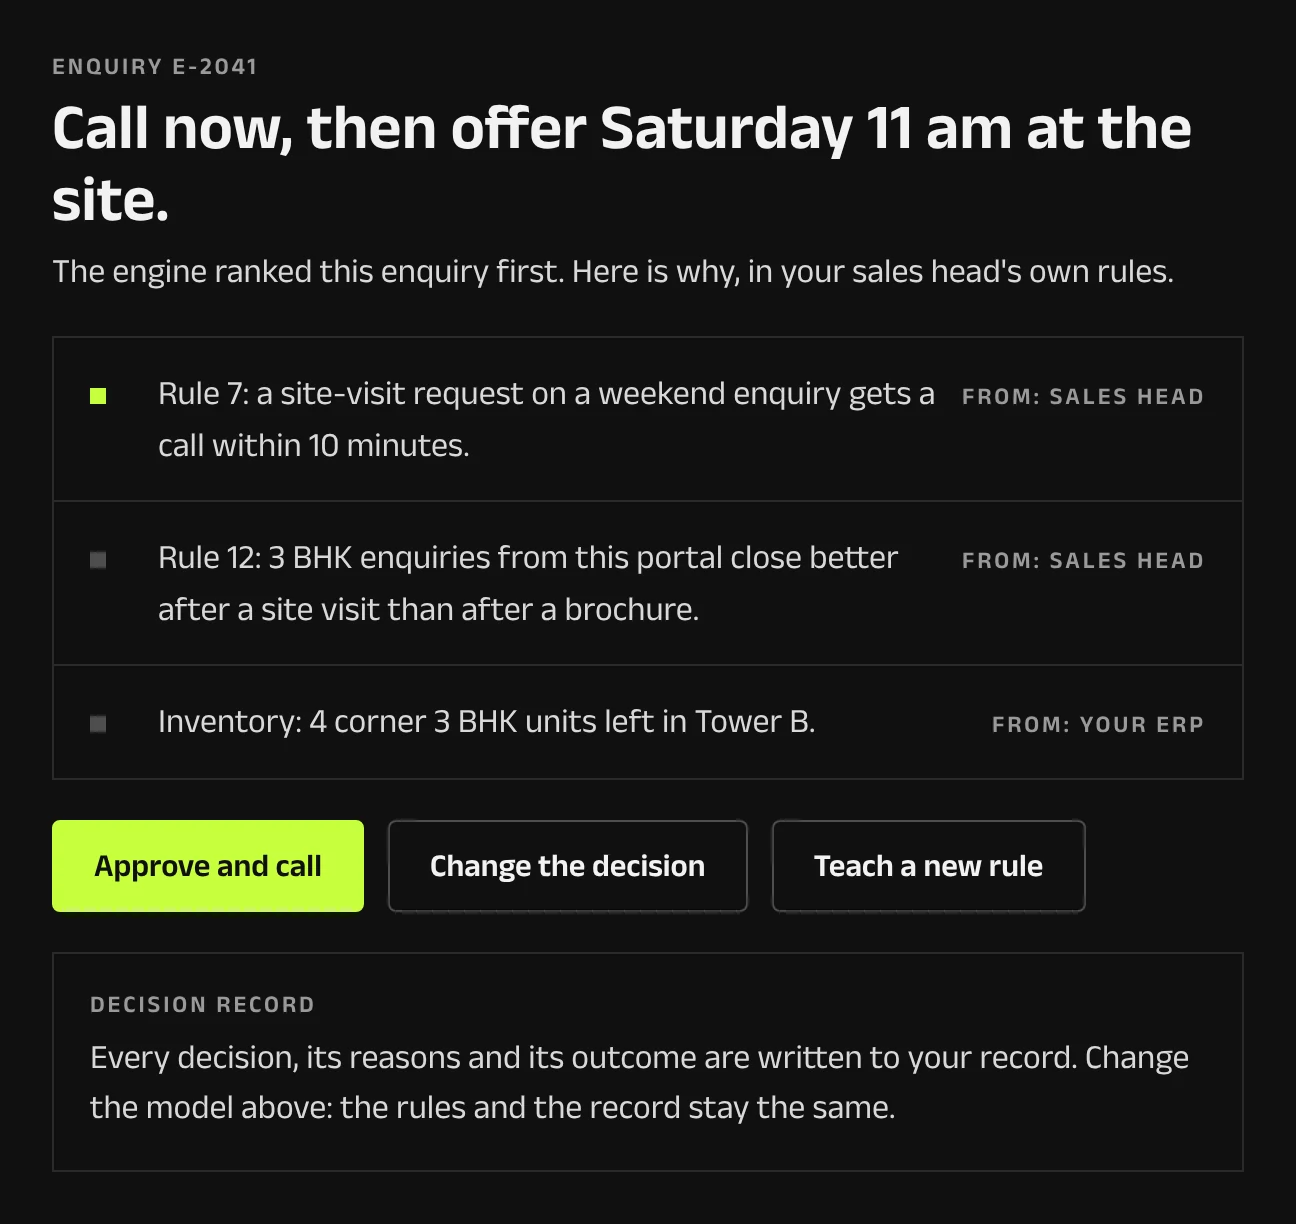
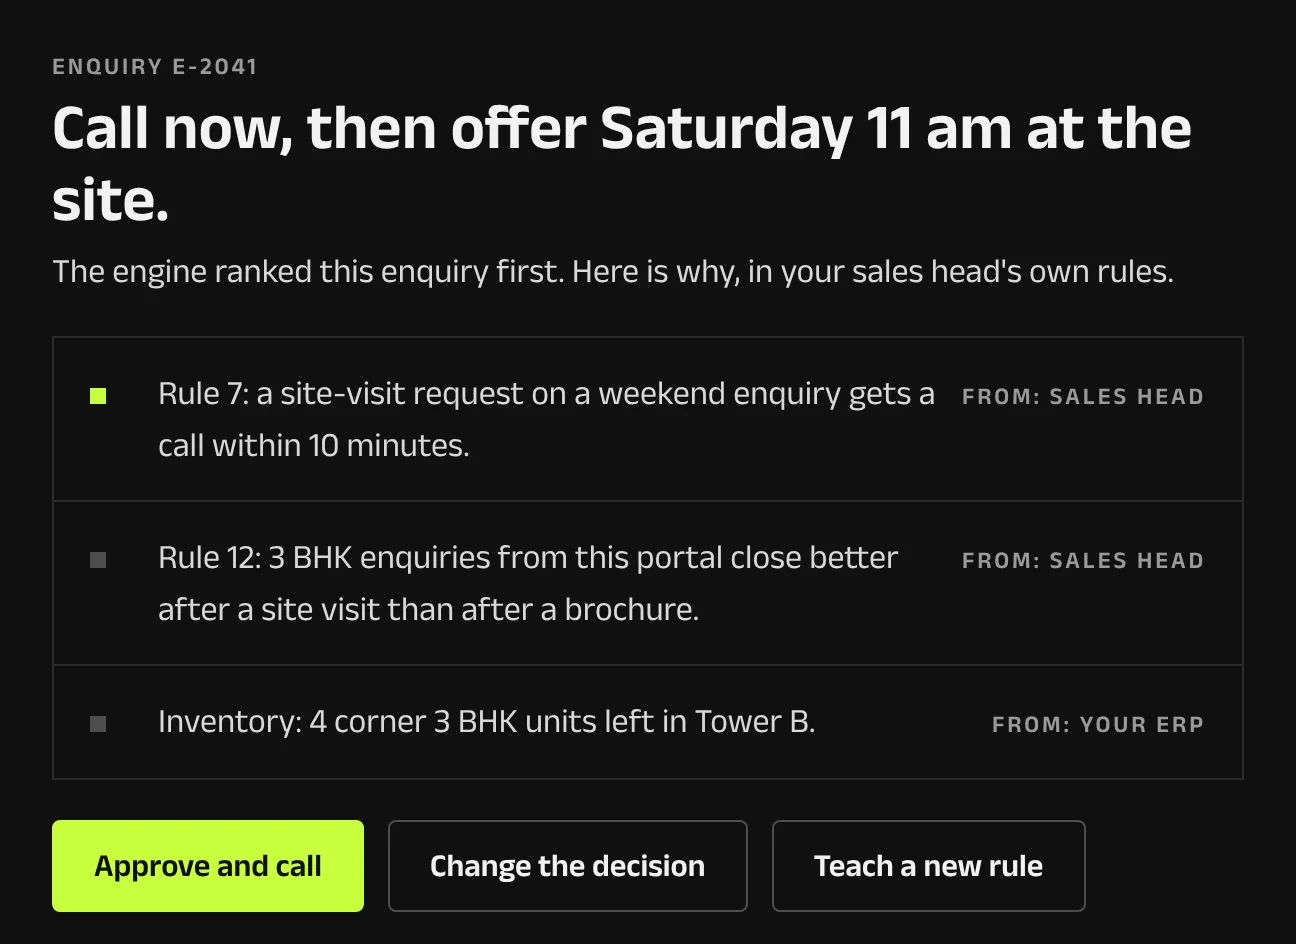
Meta descriptions within 160 characters; tighter Sales Engine phone crop
- Next generation, How we work, Chemicals and pharma, Auto components
  and Product: meta and Open Graph descriptions trimmed to 154 to 159
  characters. The visible page text is unchanged.
- Sales Engine: the phone picture now ends below the decision buttons,
  so the decision record's "Change the model above" no longer shows
  without the model switch. 1296 x 944 and 648 x 472 WebP.

Claude-Session: https://claude.ai/code/session_01Tmb6ZH3UjJTymuFfWY4a68

diff --git a/docs/industries/chemicals-and-pharma/index.html b/docs/industries/chemicals-and-pharma/index.html
@@ -4,7 +4,7 @@
 <meta charset="utf-8">
 <meta name="viewport" content="width=device-width, initial-scale=1">
 <title>AI for chemical and pharma makers: where it pays back first | Intellumia, an AI-native product company, starting with service</title>
-<meta name="description" content="Where AI pays back first: in batch yield and in quality. Both swing with who is on shift, because the best operators run the batch on judgement that was never written down.">
+<meta name="description" content="Where AI pays back first: batch yield and quality. Both swing with who is on shift, because the best operators run each batch on judgement never written down.">
 <link rel="canonical" href="https://intellumia.com/industries/chemicals-and-pharma/">
 <meta name="referrer" content="strict-origin-when-cross-origin">
 <meta http-equiv="Content-Security-Policy" content="default-src 'self'; img-src 'self' data:; style-src 'self' 'unsafe-inline'; font-src 'self'; script-src 'none'; base-uri 'self'; form-action 'none'">
@@ -13,7 +13,7 @@
 <link rel="preload" href="/assets/fonts/AnekLatin-latin.woff2" as="font" type="font/woff2" crossorigin>
 <link rel="stylesheet" href="/assets/site.css">
 <meta property="og:type" content="website"><meta property="og:site_name" content="Intellumia">
-<meta property="og:title" content="AI for chemical and pharma makers: where it pays back first | Intellumia, an AI-native product company, starting with service"><meta property="og:description" content="Where AI pays back first: in batch yield and in quality. Both swing with who is on shift, because the best operators run the batch on judgement that was never written down."><meta property="og:url" content="https://intellumia.com/industries/chemicals-and-pharma/">
+<meta property="og:title" content="AI for chemical and pharma makers: where it pays back first | Intellumia, an AI-native product company, starting with service"><meta property="og:description" content="Where AI pays back first: batch yield and quality. Both swing with who is on shift, because the best operators run each batch on judgement never written down."><meta property="og:url" content="https://intellumia.com/industries/chemicals-and-pharma/">
 <meta property="og:image" content="https://intellumia.com/assets/social-preview.jpg"><meta property="og:image:width" content="1200"><meta property="og:image:height" content="630">
 <meta name="twitter:card" content="summary_large_image">
 <script type="application/ld+json">{"@context": "https://schema.org", "@graph": [{"@type": "Organization", "@id": "https://intellumia.com/#organization", "name": "Intellumia", "alternateName": "intellumia", "legalName": "Intellumia Pte. Ltd.", "description": "Intellumia is the judgement engine for owner-led businesses: it learns how your best people decide and runs those decisions on your data. You own it.", "disambiguatingDescription": "An AI-native product company, starting with service.", "slogan": "The judgement that built your business, put to work.", "url": "https://intellumia.com/", "logo": "https://intellumia.com/assets/intellumia-wordmark-black.svg", "founder": {"@type": "Person", "@id": "https://intellumia.com/about/#sundeep-kumar", "name": "Sundeep Kumar"}, "address": {"@type": "PostalAddress", "streetAddress": "60 Paya Lebar Road, #07-54 Paya Lebar Square", "postalCode": "409051", "addressCountry": "SG"}, "email": "sundeep@intellumia.com"}, {"@type": "FAQPage", "mainEntity": [{"@type": "Question", "name": "Where does AI pay back first in a chemical or pharma plant?", "acceptedAnswer": {"@type": "Answer", "text": "Usually in batch yield and quality, because the batch records already exist and the cost of a failed or reworked batch is easy to count."}}, {"@type": "Question", "name": "Do we need new software or sensors?", "acceptedAnswer": {"@type": "Answer", "text": "Not to start. The Decision Sprint works on the data you already have: batch records, lab sheets, SAP or Tally."}}, {"@type": "Question", "name": "Will it replace my plant head?", "acceptedAnswer": {"@type": "Answer", "text": "No. It writes down how your best people decide and puts that judgement on every shift. Your people still decide and sign."}}, {"@type": "Question", "name": "How long before we see a number?", "acceptedAnswer": {"@type": "Answer", "text": "Five days to see the first move and its number; 90 days to move it against a baseline taken first."}}, {"@type": "Question", "name": "Who owns what is built?", "acceptedAnswer": {"@type": "Answer", "text": "You do: the rules, the decision record and the engine, on any AI model."}}]}, {"@type": "BreadcrumbList", "itemListElement": [{"@type": "ListItem", "position": 1, "name": "Home", "item": "https://intellumia.com/"}, {"@type": "ListItem", "position": 2, "name": "Industries", "item": "https://intellumia.com/industries/"}, {"@type": "ListItem", "position": 3, "name": "Chemicals and pharma", "item": "https://intellumia.com/industries/chemicals-and-pharma/"}]}]}</script>

diff --git a/docs/industries/auto-components/index.html b/docs/industries/auto-components/index.html
@@ -4,7 +4,7 @@
 <meta charset="utf-8">
 <meta name="viewport" content="width=device-width, initial-scale=1">
 <title>AI for auto component makers: where it pays back first | Intellumia, an AI-native product company, starting with service</title>
-<meta name="description" content="Where AI pays back first: in quality and in quoting. Both run on the judgement of a few senior people, and both leak margin when those people are not in the room.">
+<meta name="description" content="Where AI pays back first: in quality and in quoting. Both run on the judgement of a few senior people, and both leak margin when they are not in the room.">
 <link rel="canonical" href="https://intellumia.com/industries/auto-components/">
 <meta name="referrer" content="strict-origin-when-cross-origin">
 <meta http-equiv="Content-Security-Policy" content="default-src 'self'; img-src 'self' data:; style-src 'self' 'unsafe-inline'; font-src 'self'; script-src 'none'; base-uri 'self'; form-action 'none'">
@@ -13,7 +13,7 @@
 <link rel="preload" href="/assets/fonts/AnekLatin-latin.woff2" as="font" type="font/woff2" crossorigin>
 <link rel="stylesheet" href="/assets/site.css">
 <meta property="og:type" content="website"><meta property="og:site_name" content="Intellumia">
-<meta property="og:title" content="AI for auto component makers: where it pays back first | Intellumia, an AI-native product company, starting with service"><meta property="og:description" content="Where AI pays back first: in quality and in quoting. Both run on the judgement of a few senior people, and both leak margin when those people are not in the room."><meta property="og:url" content="https://intellumia.com/industries/auto-components/">
+<meta property="og:title" content="AI for auto component makers: where it pays back first | Intellumia, an AI-native product company, starting with service"><meta property="og:description" content="Where AI pays back first: in quality and in quoting. Both run on the judgement of a few senior people, and both leak margin when they are not in the room."><meta property="og:url" content="https://intellumia.com/industries/auto-components/">
 <meta property="og:image" content="https://intellumia.com/assets/social-preview.jpg"><meta property="og:image:width" content="1200"><meta property="og:image:height" content="630">
 <meta name="twitter:card" content="summary_large_image">
 <script type="application/ld+json">{"@context": "https://schema.org", "@graph": [{"@type": "Organization", "@id": "https://intellumia.com/#organization", "name": "Intellumia", "alternateName": "intellumia", "legalName": "Intellumia Pte. Ltd.", "description": "Intellumia is the judgement engine for owner-led businesses: it learns how your best people decide and runs those decisions on your data. You own it.", "disambiguatingDescription": "An AI-native product company, starting with service.", "slogan": "The judgement that built your business, put to work.", "url": "https://intellumia.com/", "logo": "https://intellumia.com/assets/intellumia-wordmark-black.svg", "founder": {"@type": "Person", "@id": "https://intellumia.com/about/#sundeep-kumar", "name": "Sundeep Kumar"}, "address": {"@type": "PostalAddress", "streetAddress": "60 Paya Lebar Road, #07-54 Paya Lebar Square", "postalCode": "409051", "addressCountry": "SG"}, "email": "sundeep@intellumia.com"}, {"@type": "FAQPage", "mainEntity": [{"@type": "Question", "name": "Where does AI pay back first in an auto component plant?", "acceptedAnswer": {"@type": "Answer", "text": "Usually in quality: rejections, rework and first-pass yield, because the data already exists in your inspection and machine records and the cost of a bad batch is easy to count."}}, {"@type": "Question", "name": "Do we need new software or sensors?", "acceptedAnswer": {"@type": "Answer", "text": "Not to start. The Decision Sprint works on the data you already have: SAP or Tally, inspection sheets, machine logs."}}, {"@type": "Question", "name": "Will it replace my quality head?", "acceptedAnswer": {"@type": "Answer", "text": "No. It writes down how your quality head decides and puts that judgement on every shift. Your people still decide."}}, {"@type": "Question", "name": "How long before we see a number?", "acceptedAnswer": {"@type": "Answer", "text": "Five days to see the first move and its number; 90 days to move it against a baseline taken first."}}, {"@type": "Question", "name": "Who owns what is built?", "acceptedAnswer": {"@type": "Answer", "text": "You do: the rules, the decision record and the engine, on any AI model."}}]}, {"@type": "BreadcrumbList", "itemListElement": [{"@type": "ListItem", "position": 1, "name": "Home", "item": "https://intellumia.com/"}, {"@type": "ListItem", "position": 2, "name": "Industries", "item": "https://intellumia.com/industries/"}, {"@type": "ListItem", "position": 3, "name": "Auto components", "item": "https://intellumia.com/industries/auto-components/"}]}]}</script>

diff --git a/docs/product/index.html b/docs/product/index.html
@@ -4,7 +4,7 @@
 <meta charset="utf-8">
 <meta name="viewport" content="width=device-width, initial-scale=1">
 <title>Product: the intelligence layer | Intellumia, an AI-native product company, starting with service</title>
-<meta name="description" content="The Intellumia layer keeps how your company decides: the reasons, rules and instincts of your best people. Engines run on it every day, on your data. You own it.">
+<meta name="description" content="The Intellumia layer keeps how your company decides: the reasons, rules and instincts of your best people. Engines run on it daily, on your data. You own it.">
 <link rel="canonical" href="https://intellumia.com/product/">
 <meta name="referrer" content="strict-origin-when-cross-origin">
 <meta http-equiv="Content-Security-Policy" content="default-src 'self'; img-src 'self' data:; style-src 'self' 'unsafe-inline'; font-src 'self'; script-src 'none'; base-uri 'self'; form-action 'none'">
@@ -13,7 +13,7 @@
 <link rel="preload" href="/assets/fonts/AnekLatin-latin.woff2" as="font" type="font/woff2" crossorigin>
 <link rel="stylesheet" href="/assets/site.css">
 <meta property="og:type" content="website"><meta property="og:site_name" content="Intellumia">
-<meta property="og:title" content="Product: the intelligence layer | Intellumia, an AI-native product company, starting with service"><meta property="og:description" content="The Intellumia layer keeps how your company decides: the reasons, rules and instincts of your best people. Engines run on it every day, on your data. You own it."><meta property="og:url" content="https://intellumia.com/product/">
+<meta property="og:title" content="Product: the intelligence layer | Intellumia, an AI-native product company, starting with service"><meta property="og:description" content="The Intellumia layer keeps how your company decides: the reasons, rules and instincts of your best people. Engines run on it daily, on your data. You own it."><meta property="og:url" content="https://intellumia.com/product/">
 <meta property="og:image" content="https://intellumia.com/assets/social-preview.jpg"><meta property="og:image:width" content="1200"><meta property="og:image:height" content="630">
 <meta name="twitter:card" content="summary_large_image">
 <script type="application/ld+json">{"@context": "https://schema.org", "@graph": [{"@type": "Organization", "@id": "https://intellumia.com/#organization", "name": "Intellumia", "alternateName": "intellumia", "legalName": "Intellumia Pte. Ltd.", "description": "Intellumia is the judgement engine for owner-led businesses: it learns how your best people decide and runs those decisions on your data. You own it.", "disambiguatingDescription": "An AI-native product company, starting with service.", "slogan": "The judgement that built your business, put to work.", "url": "https://intellumia.com/", "logo": "https://intellumia.com/assets/intellumia-wordmark-black.svg", "founder": {"@type": "Person", "@id": "https://intellumia.com/about/#sundeep-kumar", "name": "Sundeep Kumar"}, "address": {"@type": "PostalAddress", "streetAddress": "60 Paya Lebar Road, #07-54 Paya Lebar Square", "postalCode": "409051", "addressCountry": "SG"}, "email": "sundeep@intellumia.com"}, {"@type": "FAQPage", "mainEntity": [{"@type": "Question", "name": "Is this software or consulting?", "acceptedAnswer": {"@type": "Answer", "text": "Software, started with service. We sit beside your team for the first decisions, then the engines run them."}}, {"@type": "Question", "name": "What if we change AI provider?", "acceptedAnswer": {"@type": "Answer", "text": "Nothing is lost. The layer is yours and runs on any model."}}, {"@type": "Question", "name": "Do you need all our data?", "acceptedAnswer": {"@type": "Answer", "text": "No. One decision and the data behind it, to start."}}]}]}</script>

diff --git a/docs/next-generation/index.html b/docs/next-generation/index.html
@@ -4,7 +4,7 @@
 <meta charset="utf-8">
 <meta name="viewport" content="width=device-width, initial-scale=1">
 <title>For the next generation | Intellumia, an AI-native product company, starting with service</title>
-<meta name="description" content="You will inherit the business. Will you inherit how it decides? Intellumia writes down the founder&#x27;s judgement and puts it to work, in a layer the family business owns.">
+<meta name="description" content="You will inherit the business. Will you inherit how it decides? Intellumia writes down the founder&#x27;s judgement and runs it in a layer the family business owns.">
 <link rel="canonical" href="https://intellumia.com/next-generation/">
 <meta name="referrer" content="strict-origin-when-cross-origin">
 <meta http-equiv="Content-Security-Policy" content="default-src 'self'; img-src 'self' data:; style-src 'self' 'unsafe-inline'; font-src 'self'; script-src 'none'; base-uri 'self'; form-action 'none'">
@@ -13,7 +13,7 @@
 <link rel="preload" href="/assets/fonts/AnekLatin-latin.woff2" as="font" type="font/woff2" crossorigin>
 <link rel="stylesheet" href="/assets/site.css">
 <meta property="og:type" content="website"><meta property="og:site_name" content="Intellumia">
-<meta property="og:title" content="For the next generation | Intellumia, an AI-native product company, starting with service"><meta property="og:description" content="You will inherit the business. Will you inherit how it decides? Intellumia writes down the founder&#x27;s judgement and puts it to work, in a layer the family business owns."><meta property="og:url" content="https://intellumia.com/next-generation/">
+<meta property="og:title" content="For the next generation | Intellumia, an AI-native product company, starting with service"><meta property="og:description" content="You will inherit the business. Will you inherit how it decides? Intellumia writes down the founder&#x27;s judgement and runs it in a layer the family business owns."><meta property="og:url" content="https://intellumia.com/next-generation/">
 <meta property="og:image" content="https://intellumia.com/assets/social-preview.jpg"><meta property="og:image:width" content="1200"><meta property="og:image:height" content="630">
 <meta name="twitter:card" content="summary_large_image">
 <script type="application/ld+json">{"@context": "https://schema.org", "@graph": [{"@type": "Organization", "@id": "https://intellumia.com/#organization", "name": "Intellumia", "alternateName": "intellumia", "legalName": "Intellumia Pte. Ltd.", "description": "Intellumia is the judgement engine for owner-led businesses: it learns how your best people decide and runs those decisions on your data. You own it.", "disambiguatingDescription": "An AI-native product company, starting with service.", "slogan": "The judgement that built your business, put to work.", "url": "https://intellumia.com/", "logo": "https://intellumia.com/assets/intellumia-wordmark-black.svg", "founder": {"@type": "Person", "@id": "https://intellumia.com/about/#sundeep-kumar", "name": "Sundeep Kumar"}, "address": {"@type": "PostalAddress", "streetAddress": "60 Paya Lebar Road, #07-54 Paya Lebar Square", "postalCode": "409051", "addressCountry": "SG"}, "email": "sundeep@intellumia.com"}]}</script>

diff --git a/docs/how-we-work/index.html b/docs/how-we-work/index.html
@@ -4,7 +4,7 @@
 <meta charset="utf-8">
 <meta name="viewport" content="width=device-width, initial-scale=1">
 <title>How we work | Intellumia, an AI-native product company, starting with service</title>
-<meta name="description" content="We sit on your side of the table. A Decision Sprint finds the first move in five days; a 90-day build moves one number; Embed adds the next decisions. You own what we build.">
+<meta name="description" content="We sit on your side of the table. A Decision Sprint finds the first move in five days; a 90-day build moves one number; Embed adds more. You own what we build.">
 <link rel="canonical" href="https://intellumia.com/how-we-work/">
 <meta name="referrer" content="strict-origin-when-cross-origin">
 <meta http-equiv="Content-Security-Policy" content="default-src 'self'; img-src 'self' data:; style-src 'self' 'unsafe-inline'; font-src 'self'; script-src 'none'; base-uri 'self'; form-action 'none'">
@@ -13,7 +13,7 @@
 <link rel="preload" href="/assets/fonts/AnekLatin-latin.woff2" as="font" type="font/woff2" crossorigin>
 <link rel="stylesheet" href="/assets/site.css">
 <meta property="og:type" content="website"><meta property="og:site_name" content="Intellumia">
-<meta property="og:title" content="How we work | Intellumia, an AI-native product company, starting with service"><meta property="og:description" content="We sit on your side of the table. A Decision Sprint finds the first move in five days; a 90-day build moves one number; Embed adds the next decisions. You own what we build."><meta property="og:url" content="https://intellumia.com/how-we-work/">
+<meta property="og:title" content="How we work | Intellumia, an AI-native product company, starting with service"><meta property="og:description" content="We sit on your side of the table. A Decision Sprint finds the first move in five days; a 90-day build moves one number; Embed adds more. You own what we build."><meta property="og:url" content="https://intellumia.com/how-we-work/">
 <meta property="og:image" content="https://intellumia.com/assets/social-preview.jpg"><meta property="og:image:width" content="1200"><meta property="og:image:height" content="630">
 <meta name="twitter:card" content="summary_large_image">
 <script type="application/ld+json">{"@context": "https://schema.org", "@graph": [{"@type": "Organization", "@id": "https://intellumia.com/#organization", "name": "Intellumia", "alternateName": "intellumia", "legalName": "Intellumia Pte. Ltd.", "description": "Intellumia is the judgement engine for owner-led businesses: it learns how your best people decide and runs those decisions on your data. You own it.", "disambiguatingDescription": "An AI-native product company, starting with service.", "slogan": "The judgement that built your business, put to work.", "url": "https://intellumia.com/", "logo": "https://intellumia.com/assets/intellumia-wordmark-black.svg", "founder": {"@type": "Person", "@id": "https://intellumia.com/about/#sundeep-kumar", "name": "Sundeep Kumar"}, "address": {"@type": "PostalAddress", "streetAddress": "60 Paya Lebar Road, #07-54 Paya Lebar Square", "postalCode": "409051", "addressCountry": "SG"}, "email": "sundeep@intellumia.com"}]}</script>

diff --git a/docs/sales-engine/index.html b/docs/sales-engine/index.html
@@ -42,7 +42,7 @@
 <div class="col" style="gap:32px">
 <div class="head"><p class="label">The sandbox</p><h2 class="hd hd--l">Every decision, with the rules behind it.</h2></div>
 <figure class="shot">
-<picture><source media="(max-width: 760px)" srcset="/assets/imagery/sales-engine-decision_648.webp 648w, /assets/imagery/sales-engine-decision_1296.webp 1296w" sizes="calc(100vw - 40px)" width="1296" height="1224"><img src="/assets/imagery/sales-engine-sandbox_1280.webp" srcset="/assets/imagery/sales-engine-sandbox_1280.webp 1280w, /assets/imagery/sales-engine-sandbox_2560.webp 2560w" sizes="(max-width: 1120px) calc(100vw - 40px), 1040px" width="1280" height="683" alt="A picture of the Sales Engine sandbox on sample data, showing the decision on one enquiry and the three rules behind it." loading="lazy" decoding="async"></picture>
+<picture><source media="(max-width: 760px)" srcset="/assets/imagery/sales-engine-decision_648.webp 648w, /assets/imagery/sales-engine-decision_1296.webp 1296w" sizes="calc(100vw - 40px)" width="1296" height="944"><img src="/assets/imagery/sales-engine-sandbox_1280.webp" srcset="/assets/imagery/sales-engine-sandbox_1280.webp 1280w, /assets/imagery/sales-engine-sandbox_2560.webp 2560w" sizes="(max-width: 1120px) calc(100vw - 40px), 1040px" width="1280" height="683" alt="A picture of the Sales Engine sandbox on sample data, showing the decision on one enquiry and the three rules behind it." loading="lazy" decoding="async"></picture>
 <figcaption class="ev">Sample data. Illustration, not a client result.</figcaption>
 </figure>
 <div class="cols">
